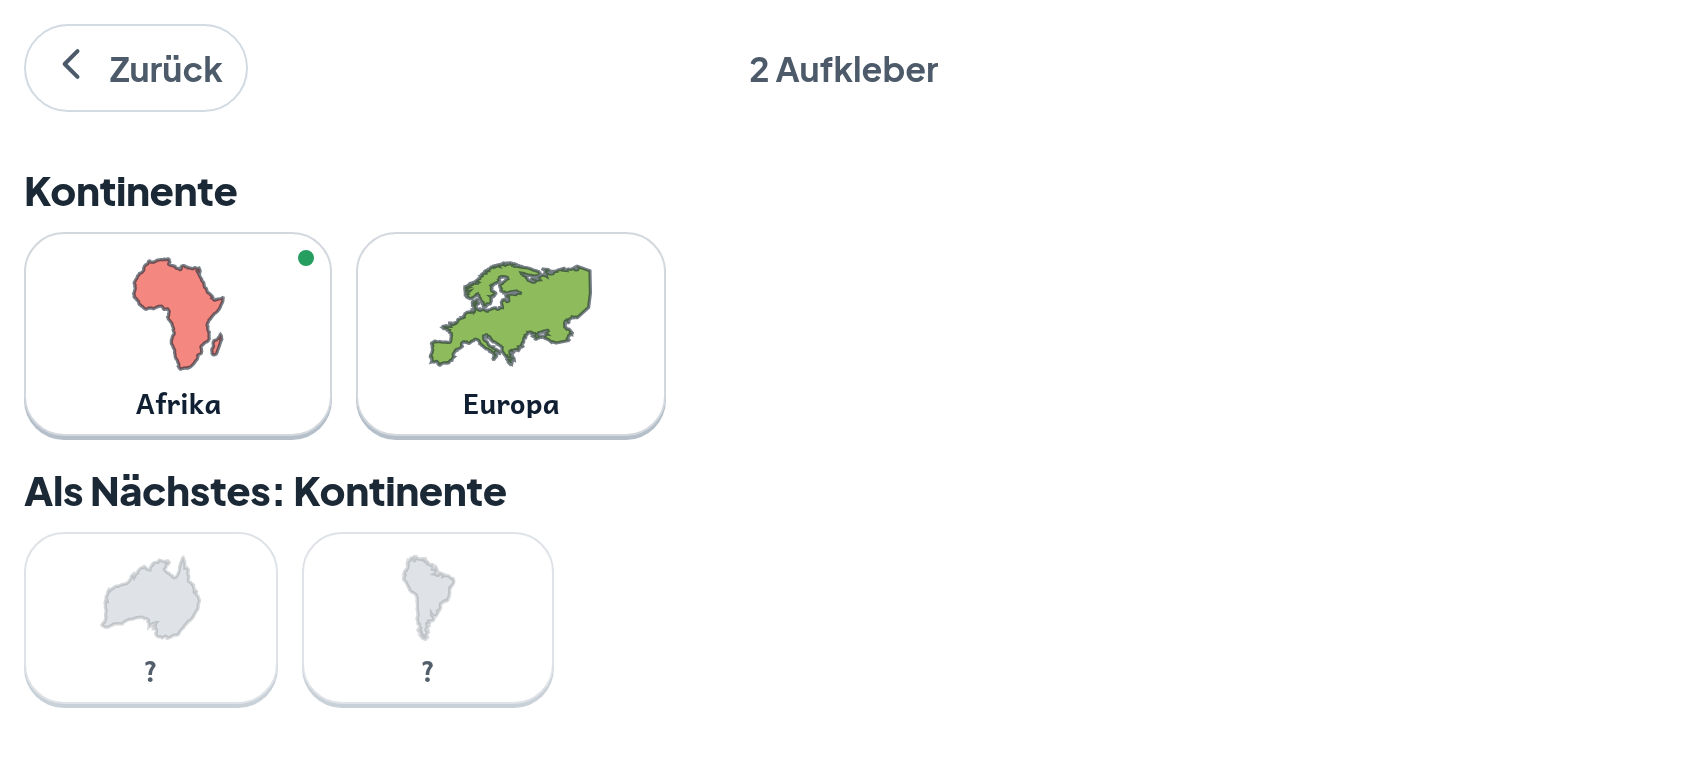
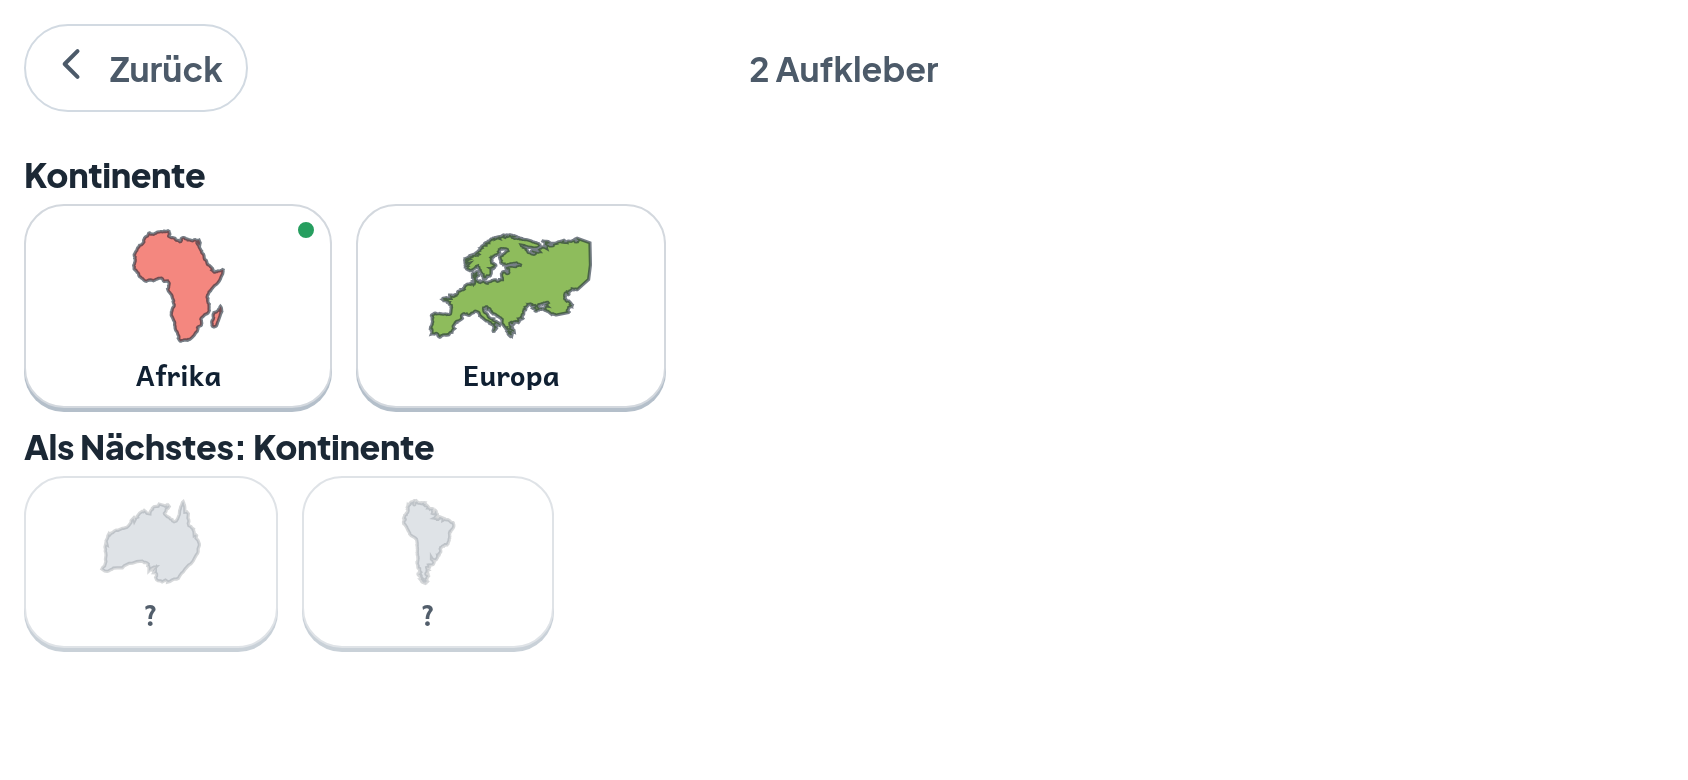
F16: Brandenburgs Anker lag in Berlin - und das Tor sah es nicht
Gefunden hat es der Rauchtest der Runde D2, nicht das Tor, das dafuer da
ist. Der Abschnitt `abzeichen` zog "Brandenburg" auf Brandenburgs Anker
und bekam "Das ist Berlin." Gemessen am gebauten dist/, iPhone quer
844x390: der Anker liegt 1,8 Bildpunkte neben dem Mittelpunkt von Berlins
Trefferkreis, der 10 Bildpunkte Radius hat.

Ursache im Werkzeug: backen-staedte.mjs machte aus jedem Ring eines
Pfades ein eigenes Polygon OHNE Loch - direkt unter einem Kommentar, der
das Gegenteil ankuendigte. Der groesste einbeschriebene Kreis kannte das
Loch damit nicht, und die Mitte von Brandenburg ist Berlin.

Warum keiner es meldete: `topologie` prueft "Anker liegt im Gebiet" gegen
den Aussenring OHNE Loecher. Ein Anker im Loch ist im Aussenring. Die
stehende Gegenprobe schob den Anker weit vor die Kueste - den echten Fall
konnte sie nicht sehen. Es gibt jetzt eine zweite, die genau den Wert
einsetzt, der bis hier in den Daten stand.

Was das im Spiel war: am Anker haengen Zeiger, Haekchen, Namensfahne und
Trefferkreis. Die App zeigte dem Kind die Stelle, auf die es ziehen soll -
und diese Stelle war Berlin.

- geo-backen.mjs: pfadZuRingen + ringeZuPolygonen, einmal statt dreimal
- backen-staedte.mjs: benutzt beides; rechnet die Anker jetzt auch ohne
  die 400 MB Rohdaten, denn sie haengen nur an DEUTSCHLAND_FEIN
- staedte.js: Brandenburg [804.7,446.1] -> [874,537.7], Radius 106,8 ->
  74,6; Niedersachsen um zwei Punkte. Die zwei Bundeslaender mit Loch.
[…]

diff --git a/src/geo/staedte.js b/src/geo/staedte.js
@@ -1,2 +1,2 @@
 // ERZEUGT von tools/backen-staedte.mjs - nicht von Hand aendern.
-export const STAEDTE = [{"id":"DE-SN","name":"Sachsen","hauptstadt":"Dresden","stadtstaat":false,"ort":[863.1,694],"anker":[804.7,703],"radius":65,"beschriftung":"fahne","platzPx":61,"textPx":81},{"id":"DE-BY","name":"Bayern","hauptstadt":"München","stadtstaat":false,"ort":[632.6,1208.7],"anker":[658.7,1103.5],"radius":151.6,"beschriftung":"innen","platzPx":143,"textPx":70},{"id":"DE-RP","name":"Rheinland-Pfalz","hauptstadt":"Mainz","stadtstaat":false,"ort":[258.8,883.8],"anker":[133.2,872.3],"radius":70.1,"beschriftung":"fahne","platzPx":66,"textPx":174},{"id":"DE-SL","name":"Saarland","hauptstadt":"Saarbrücken","stadtstaat":false,"ort":[107.1,1005.3],"anker":[106,978.6],"radius":34.4,"beschriftung":"fahne","platzPx":32,"textPx":93},{"id":"DE-SH","name":"Schleswig-Holstein","hauptstadt":"Kiel","stadtstaat":false,"ort":[470.3,130.9],"anker":[419.7,161.8],"radius":59.8,"beschriftung":"fahne","platzPx":56,"textPx":209},{"id":"DE-NI","name":"Niedersachsen","hauptstadt":"Hannover","stadtstaat":false,"ort":[424.7,472.3],"anker":[436.9,387.8],"radius":98.2,"beschriftung":"fahne","platzPx":92,"textPx":151},{"id":"DE-NW","name":"Nordrhein-Westfalen","hauptstadt":"Düsseldorf","stadtstaat":false,"ort":[102.8,662],"anker":[181.4,615.5],"radius":105.8,"beschriftung":"fahne","platzPx":99,"textPx":220},{"id":"DE-BW","name":"Baden-Württemberg","hauptstadt":"Stuttgart","stadtstaat":false,"ort":[358.8,1095.5],"anker":[329.7,1154.3],"radius":118.6,"beschriftung":"fahne","platzPx":111,"textPx":197},{"id":"DE-BB","name":"Brandenburg","hauptstadt":"Potsdam","stadtstaat":false,"ort":[780.6,462.2],"anker":[804.7,446.1],"radius":106.8,"beschriftung":"fahne","platzPx":100,"textPx":128},{"id":"DE-MV","name":"Mecklenburg-Vorpommern","hauptstadt":"Schwerin","stadtstaat":false,"ort":[602.5,251.8],"anker":[742.4,226.2],"radius":89.6,"beschriftung":"fahne","platzPx":84,"textPx":255},{"id":"DE-HB","name":"Bremen","hauptstadt":"Bremen","stadtstaat":true,"ort":[330.2,346.7],"anker":[328.7,341.2],"radius":10,"beschriftung":"fahne","platzPx":9,"textPx":70},{"id":"DE-HH","name":"Hamburg","hauptstadt":"Hamburg","stadtstaat":true,"ort":[456,266.4],"anker":[456.7,267.7],"radius":17.9,"beschriftung":"fahne","platzPx":17,"textPx":81},{"id":"DE-HE","name":"Hessen","hauptstadt":"Wiesbaden","stadtstaat":false,"ort":[256.8,866.6],"anker":[354.6,769.8],"radius":84.6,"beschriftung":"innen","platzPx":80,"textPx":70},{"id":"DE-TH","name":"Thüringen","hauptstadt":"Erfurt","stadtstaat":false,"ort":[565.9,715.5],"anker":[546.7,738.3],"radius":77.3,"beschriftung":"fahne","platzPx":73,"textPx":104},{"id":"DE-ST","name":"Sachsen-Anhalt","hauptstadt":"Magdeburg","stadtstaat":false,"ort":[627.5,513],"anker":[631,561.2],"radius":81.1,"beschriftung":"fahne","platzPx":76,"textPx":162},{"id":"DE-BE","name":"Berlin","hauptstadt":"Berlin","stadtstaat":true,"ort":[814.7,439.4],"anker":[812.1,441.1],"radius":19,"beschriftung":"fahne","platzPx":18,"textPx":70}];
+export const STAEDTE = [{"id":"DE-SN","name":"Sachsen","hauptstadt":"Dresden","stadtstaat":false,"ort":[863.1,694],"anker":[804.7,703],"radius":65,"beschriftung":"fahne","platzPx":61,"textPx":81},{"id":"DE-BY","name":"Bayern","hauptstadt":"München","stadtstaat":false,"ort":[632.6,1208.7],"anker":[658.7,1103.5],"radius":151.6,"beschriftung":"innen","platzPx":143,"textPx":70},{"id":"DE-RP","name":"Rheinland-Pfalz","hauptstadt":"Mainz","stadtstaat":false,"ort":[258.8,883.8],"anker":[133.2,872.3],"radius":70.1,"beschriftung":"fahne","platzPx":66,"textPx":174},{"id":"DE-SL","name":"Saarland","hauptstadt":"Saarbrücken","stadtstaat":false,"ort":[107.1,1005.3],"anker":[106,978.6],"radius":34.4,"beschriftung":"fahne","platzPx":32,"textPx":93},{"id":"DE-SH","name":"Schleswig-Holstein","hauptstadt":"Kiel","stadtstaat":false,"ort":[470.3,130.9],"anker":[419.7,161.8],"radius":59.8,"beschriftung":"fahne","platzPx":56,"textPx":209},{"id":"DE-NI","name":"Niedersachsen","hauptstadt":"Hannover","stadtstaat":false,"ort":[424.7,472.3],"anker":[437.6,389.9],"radius":97.3,"beschriftung":"fahne","platzPx":91,"textPx":151},{"id":"DE-NW","name":"Nordrhein-Westfalen","hauptstadt":"Düsseldorf","stadtstaat":false,"ort":[102.8,662],"anker":[181.4,615.5],"radius":105.8,"beschriftung":"fahne","platzPx":99,"textPx":220},{"id":"DE-BW","name":"Baden-Württemberg","hauptstadt":"Stuttgart","stadtstaat":false,"ort":[358.8,1095.5],"anker":[329.7,1154.3],"radius":118.6,"beschriftung":"fahne","platzPx":111,"textPx":197},{"id":"DE-BB","name":"Brandenburg","hauptstadt":"Potsdam","stadtstaat":false,"ort":[780.6,462.2],"anker":[874,537.7],"radius":74.6,"beschriftung":"fahne","platzPx":70,"textPx":128},{"id":"DE-MV","name":"Mecklenburg-Vorpommern","hauptstadt":"Schwerin","stadtstaat":false,"ort":[602.5,251.8],"anker":[742.4,226.2],"radius":89.6,"beschriftung":"fahne","platzPx":84,"textPx":255},{"id":"DE-HB","name":"Bremen","hauptstadt":"Bremen","stadtstaat":true,"ort":[330.2,346.7],"anker":[328.7,341.2],"radius":10,"beschriftung":"fahne","platzPx":9,"textPx":70},{"id":"DE-HH","name":"Hamburg","hauptstadt":"Hamburg","stadtstaat":true,"ort":[456,266.4],"anker":[456.7,267.7],"radius":17.9,"beschriftung":"fahne","platzPx":17,"textPx":81},{"id":"DE-HE","name":"Hessen","hauptstadt":"Wiesbaden","stadtstaat":false,"ort":[256.8,866.6],"anker":[354.6,769.8],"radius":84.6,"beschriftung":"innen","platzPx":80,"textPx":70},{"id":"DE-TH","name":"Thüringen","hauptstadt":"Erfurt","stadtstaat":false,"ort":[565.9,715.5],"anker":[546.7,738.3],"radius":77.3,"beschriftung":"fahne","platzPx":73,"textPx":104},{"id":"DE-ST","name":"Sachsen-Anhalt","hauptstadt":"Magdeburg","stadtstaat":false,"ort":[627.5,513],"anker":[631,561.2],"radius":81.1,"beschriftung":"fahne","platzPx":76,"textPx":162},{"id":"DE-BE","name":"Berlin","hauptstadt":"Berlin","stadtstaat":true,"ort":[814.7,439.4],"anker":[812.1,441.1],"radius":19,"beschriftung":"fahne","platzPx":18,"textPx":70}];

diff --git a/prototyp/vorlage.html b/prototyp/vorlage.html
@@ -619,10 +619,6 @@ body{background:linear-gradient(168deg,var(--grund) 0%,var(--grund-2) 100%);
      die drei Stadtstaaten" braucht kein Wort darueber. Fiona liest sie
      ohnehin nicht. */
   .abzkopf{display:none}
-  /* Und die Luft VOR der ersten Aufklebergruppe: `.gruppe` traegt 24
-     Punkte oben, und nach dem Abzeichenblock braucht es die nicht - der
-     Block trennt schon durch seine Farbe. */
-  .abzeichen + .gruppe{margin-top:var(--r3)}
 }
 .kachel .umriss{width:96px;height:96px}
 .kachel .kreis{width:64px;height:64px;border-radius:var(--rund-voll);display:flex;
@@ -1171,6 +1167,24 @@ code{font-family:ui-monospace,monospace;font-size:.9em;background:var(--linie);
    * `passt` misst den Ueberlauf nicht, weil `.rollen` rollen DARF. */
   .kleber.gross .aufkleber svg{height:64px}
   .kleber.gross.vorschau .aufkleber svg{height:48px}
+  /* Und die Ueberschriften der Aufklebergruppen werden kleiner.
+   *
+   * Gemessen am Zielgeraet mit Browserleiste (844 x 390, davon 322
+   * sichtbar), Fiona mit fuenf Aufklebern: der Abzeichenstreifen kostet
+   * 44 Punkte, und danach stand der Inhalt auf 340 - achtzehn zuviel.
+   * Vorher waren es genau 322 in 322, das Buch hatte also KEINEN
+   * Spielraum; die naechste Zeile, die irgendwer hinzufuegt, haette es
+   * genauso gekippt.
+   *
+   * Zurueckgeholt wird es nicht am Streifen: 44 Punkte sind die
+   * Fingergrenze und keine Zahl, die man weiter drueckt. Es kommt von den
+   * zwei Gruppenueberschriften, die zusammen 90 Punkte fuer zwei Woerter
+   * trugen (je 26 hoch, dazu 14 und 8 Punkte Rand) - auf einem
+   * Bildschirm, der 322 hat. Mit `--s0` statt `--s1` und engeren
+   * Raendern sind es 68, und die Fusspolsterung gibt sechs weitere her:
+   * gemessen 312 in 322, also zehn Punkte Luft statt keiner. */
+  .rollen.buch .gruppe{font-size:var(--s0);margin:var(--r3) 0 var(--r1)}
+  .rollen.buch{padding-bottom:var(--r4)}
   .frage{padding:0 var(--r4) var(--r1)}
   .etikett{min-height:44px}
   .titel{font-size:var(--s2)}

diff --git a/prototyp/spiel.js b/prototyp/spiel.js
@@ -4169,7 +4169,7 @@ async function forscherbuch(){
 
   s.innerHTML = kopf({ links: zurueckKnopf(),
     mitte:`<span class="marke">${gesamt} Aufkleber</span>` }) + `
-    <div class="rollen">
+    <div class="rollen buch">
       ${verdient.length ? `
         <h3 class="gruppe abzkopf">Deine Abzeichen</h3>
         <div class="abzeichen">${verdient.map(markeBild).join('')}${

diff --git a/docs/Lernkiste-STAND.md b/docs/Lernkiste-STAND.md
@@ -5626,3 +5626,125 @@ entscheidet nach dem **Trefferkreis**, nicht nach dem Umriss, und ein
 Punkt weit außen auf einem großen Land liegt schon im Kreis des Nachbarn.
 
 174 Gegenproben, alle mit Nachweis.
+
+---
+
+## F16 · Brandenburgs Anker lag in Berlin
+
+Diese Runde war als Abschluss von D2 gedacht: Kette fahren, einchecken,
+liefern. Die Kette meldete zwei Fehler, und der zweite war keiner von D2.
+
+### Was die Kette sagte
+
+```
+✗ forscherbuch: das Buch rollt schon bei 5 Karten (340 Punkte Inhalt,
+                322 sichtbar) — die Vorschau steht halb unter dem Rand
+✗ abzeichen:    page.waitForFunction: Timeout 4000ms exceeded.
+```
+
+Der erste Satz sagt, was los ist. Der zweite sagt gar nichts — eine
+Zeitüberschreitung ohne Ort. Und der Abschnitt lief **allein aufgerufen
+grün**, zweimal; nur in der vollen Kette fiel er um. Das riecht nach
+Reihenfolge oder Zufall, und beides führt erfahrungsgemäß zu einer
+Vermutung statt zu einem Befund.
+
+Also habe ich `loese()` einen Satz sagen lassen, bevor es aufgibt — was
+steht auf dem Schirm, welches Gebiet war gemeint, wo wurde losgelassen —
+und die volle Kette noch einmal gefahren. Dreizehn Minuten für einen Satz:
+
+```
+Ziel: Brandenburg    „Das ist Berlin. Brandenburg ist ganz nah —
+                      schau noch mal genau hin."
+```
+
+### Die Ursache, in drei Schritten rückwärts
+
+**Am Bildschirm.** Gemessen am gebauten `dist/`, iPhone quer 844 × 390,
+Ebene Bundesländer: Brandenburgs Anker liegt **1,8 Bildpunkte** neben dem
+Mittelpunkt von Berlins Trefferkreis, und der hat **10 Bildpunkte
+Radius**. Wer auf Brandenburgs Anker zeigt, zeigt auf Berlin.
+
+**In den Daten.** Von sechzehn Bundesländern hat genau eines seinen Anker
+nicht im eigenen Gebiet: `[804.7, 446.1]` — mitten in Berlin. Berlin liegt
+vollständig in Brandenburg; das steht sogar in `tor/inhalt.mjs` als
+erwartetes Loch.
+
+**Im Werkzeug.** `tools/backen-staedte.mjs` las den Pfad in Ringe zurück
+und machte daraus `polys.map(r => [r])` — **jeder Ring ein eigenes Polygon
+ohne Loch**. Direkt darüber stand der Kommentar: „Aussenringe und Loecher
+trennen: ein Ring, der in einem anderen liegt, ist ein Loch." Der
+Kommentar beschrieb, was zu tun war; der Code tat es nicht. Der Suchlauf
+für den größten einbeschriebenen Kreis kannte das Loch damit nicht — und
+die Mitte von Brandenburg ist Berlin.
+
+### Was das im Spiel war
+
+Der Anker ist nicht nur eine Zahl in einer Datei. An ihm hängen der
+**Zeiger**, der dem Kind zeigt, wo es hinziehen soll, das **Häkchen** für
+ein gekonntes Gebiet, die **Namensfahne** und der **Trefferkreis**. Auf
+der Aufnahme vorher steht Brandenburgs Zeiger oben im Land, direkt auf
+Berlins Häkchen; nachher sitzt er unten rechts, im Land, weit weg von
+Berlin.
+
+Anders gesagt: Fiona bekam „Wie heißt dieses Bundesland?", die App zeigte
+ihr die Stelle — und wer dorthin zog, bekam „Das ist Berlin."
+
+### Das Tor, das genau das prüfen sollte
+
+`topologie` prüft „Anker liegt IM Gebiet". Es prüfte gegen
+`imPolygon(anker, [groesster])` — **nur den Außenring, ohne Loch**. Ein
+Anker im Loch ist im Außenring. Das Tor meldete „16 Anker geprüft, 0
+außerhalb", und es hatte, an seinem eigenen Maßstab, recht.
+
+Die stehende Gegenprobe schlug an — sie schiebt den Anker nach `[5, 5]`,
+weit vor die Küste. Genau deshalb bewies sie nichts über den Fall, der
+wirklich eingetreten ist. **Regel 13, wieder:** eine Prüfung ist erst
+dann eine, wenn sie ohne die Sache messbar ausschlägt — und „ohne die
+Sache" heißt hier: ohne den Fehler, den es *gibt*, nicht ohne einen
+ausgedachten.
+
+Es gibt jetzt eine zweite Gegenprobe, und sie setzt den Anker ein, der
+bis heute wirklich in den Daten stand: `[804.7, 446.1]`. Mit der alten
+Fassung des Tores wäre sie grün geblieben.
+
+### Vier Änderungen, eine Ursache
+
+| Wo | Was |
+|---|---|
+| `tools/geo-backen.mjs` | `pfadZuRingen` und `ringeZuPolygonen` — Ringe nach Fläche sortieren, jeden in seinen Wirt hängen. Einmal, statt dreimal fast gleich (Regel 15). |
+| `tools/backen-staedte.mjs` | benutzt beides; rechnet die Anker jetzt auch **ohne Rohdaten**, weil sie nur an den eingecheckten Umrissen hängen |
+| `src/geo/staedte.js` | Brandenburg `[804.7, 446.1] → [874, 537.7]`, Radius 106,8 → 74,6. Niedersachsen um 2 Punkte (auch ein Loch: Bremen). Sonst nichts. |
+| `tor/inhalt.mjs` | `topologie` prüft gegen Außenring **und** Löcher |
+| `tor/chromium.mjs` | `zielPunkt` prüft den Anker, bevor es ihn zurückgibt — mit derselben Regel, nach der das Spiel entscheidet |
+
+Der letzte Punkt ist der, der beim nächsten Mal Zeit spart. Ein Helfer,
+der einen Punkt zurückgibt, ohne ihn zu prüfen, meldet den nächsten
+Datenfehler wieder als Zeitüberschreitung ohne Ort.
+
+**Was die Berichtigung nicht braucht:** die 400 MB Natural Earth. Ein
+Anker hängt allein an `DEUTSCHLAND_FEIN`, und das liegt eingecheckt im
+Baum. Ohne diesen Zweig hätte die Korrektur auf Rohdaten gewartet, die
+zum Bauen und Spielen niemand braucht. Fehlen sie, übernimmt das Werkzeug
+die Stadtpunkte aus der eingecheckten Fassung, rechnet nur die Anker neu
+— und **schreibt das über den Lauf**, damit niemand glaubt, er hätte auch
+die Orte neu bestimmt.
+
+### Und der erste Fehler: das Buch war randvoll
+
+Das Abzeichenband kostet 44 Punkte, und das Forscherbuch stand auf dem
+Zielgerät mit Browserleiste vorher bei **322 in 322 sichtbaren** — also
+bei null. Nicht „knapp": bei null. Jede Zeile, die irgendwer hinzugefügt
+hätte, wäre unten herausgefallen.
+
+Zurückgeholt nicht am Band — 44 Punkte sind die Fingergrenze und keine
+Zahl, die man weiter drückt —, sondern an den zwei
+Gruppenüberschriften: sie trugen zusammen **90 Punkte für zwei Wörter**
+(je 26 hoch, dazu 14 und 8 Punkte Rand) auf einem Bildschirm, der 322
+hat. Mit `--s0` statt `--s1` und engeren Rändern sind es 68, die
+Fußpolsterung gibt sechs weitere her. Gemessen: das Buch rollt nicht
+mehr.
+
+Dieselbe Begründung, die in diesem Block schon für die Bildhöhen steht:
+die Maße sind für den Schreibtisch gewählt und auf dem Telefon zu groß.
+
+175 Gegenproben, alle mit Nachweis.

diff --git a/docs/Lernkiste-BACKLOG.md b/docs/Lernkiste-BACKLOG.md
@@ -786,6 +786,40 @@ Hinweis, den niemand liest, ist dasselbe wie keiner.
 
 ---
 
+### F16 · Brandenburgs Anker lag in Berlin  ·  ERLEDIGT
+
+**Gefunden hat es der Rauchtest, nicht das Tor, das dafür da ist.** Der
+Abschnitt `abzeichen` zog „Brandenburg" auf Brandenburgs Anker und bekam
+„Das ist Berlin." Gemessen auf dem Zielgerät (844 × 390): der Anker liegt
+1,8 Bildpunkte neben dem Mittelpunkt von Berlins Trefferkreis, der 10
+Bildpunkte Radius hat.
+
+**Ursache im Werkzeug.** `tools/backen-staedte.mjs` machte aus jedem Ring
+eines Pfades ein eigenes Polygon *ohne Loch* — unter einem Kommentar, der
+das Gegenteil ankündigte. Der größte einbeschriebene Kreis kannte das Loch
+nicht, und die Mitte von Brandenburg ist Berlin.
+
+**Warum es keinem auffiel.** `topologie` prüft „Anker liegt im Gebiet"
+gegen den Außenring **ohne Löcher**. Ein Anker im Loch ist im Außenring.
+Die stehende Gegenprobe schob den Anker weit vor die Küste — den echten
+Fall konnte sie nicht sehen. Es gibt jetzt eine zweite, die genau den
+Wert einsetzt, der bis hierher in den Daten stand.
+
+**Was das im Spiel war:** am Anker hängen Zeiger, Häkchen, Namensfahne und
+Trefferkreis. Die App zeigte dem Kind die Stelle, auf die es ziehen soll —
+und diese Stelle war Berlin.
+
+Geändert: `geo-backen.mjs` (Ringe zu Polygonen, einmal statt dreimal),
+`backen-staedte.mjs` (benutzt es; rechnet Anker jetzt auch ohne die 400 MB
+Rohdaten), `staedte.js` (Brandenburg und Niedersachsen — die zwei
+Bundesländer mit Loch), `inhalt.mjs` (Tor prüft Löcher mit),
+`chromium.mjs` (`zielPunkt` prüft seinen Punkt, statt ihn zu behaupten).
+
+Im selben Zug: das Forscherbuch stand auf dem Zielgerät bei 322 Punkten in
+322 sichtbaren — bei null Spielraum. Das Abzeichenband hätte es gekippt.
+Zurückgeholt an den Gruppenüberschriften (90 Punkte für zwei Wörter), nicht
+am Band: 44 Punkte sind die Fingergrenze.
+
 ### F15 · Vier Hebel für die Sprachqualität  ·  ERLEDIGT
 
 **Der Befund war diesmal ein Bauchgefühl** („funktioniert halbwegs, aber noch
